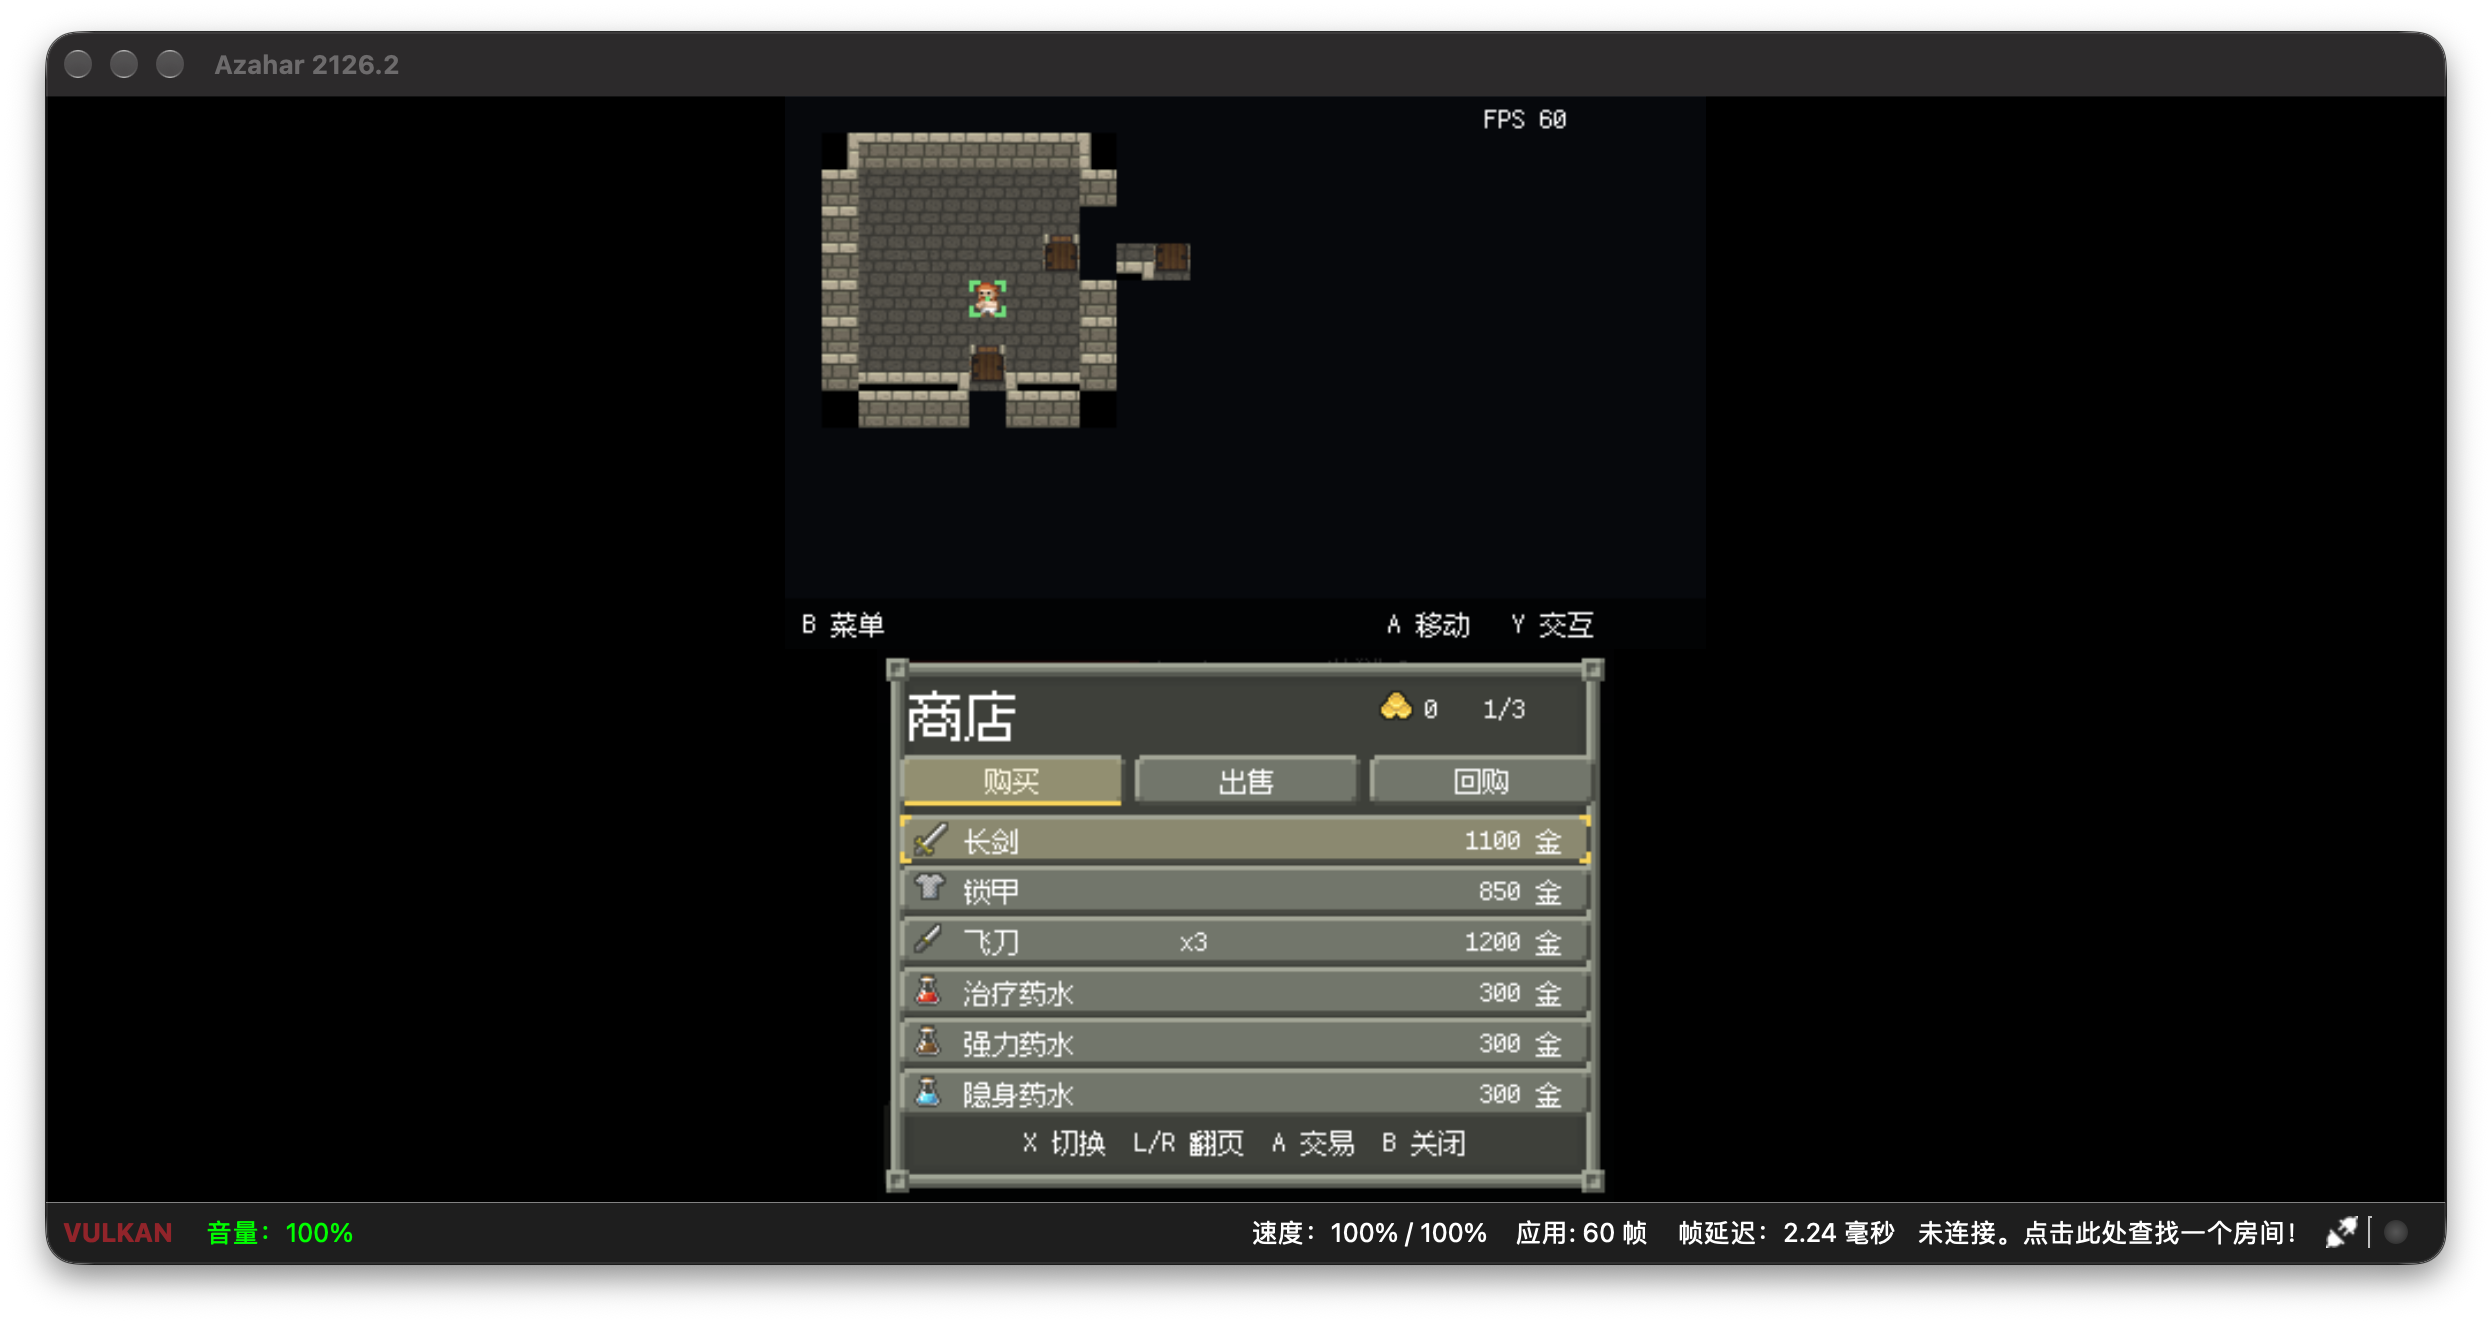
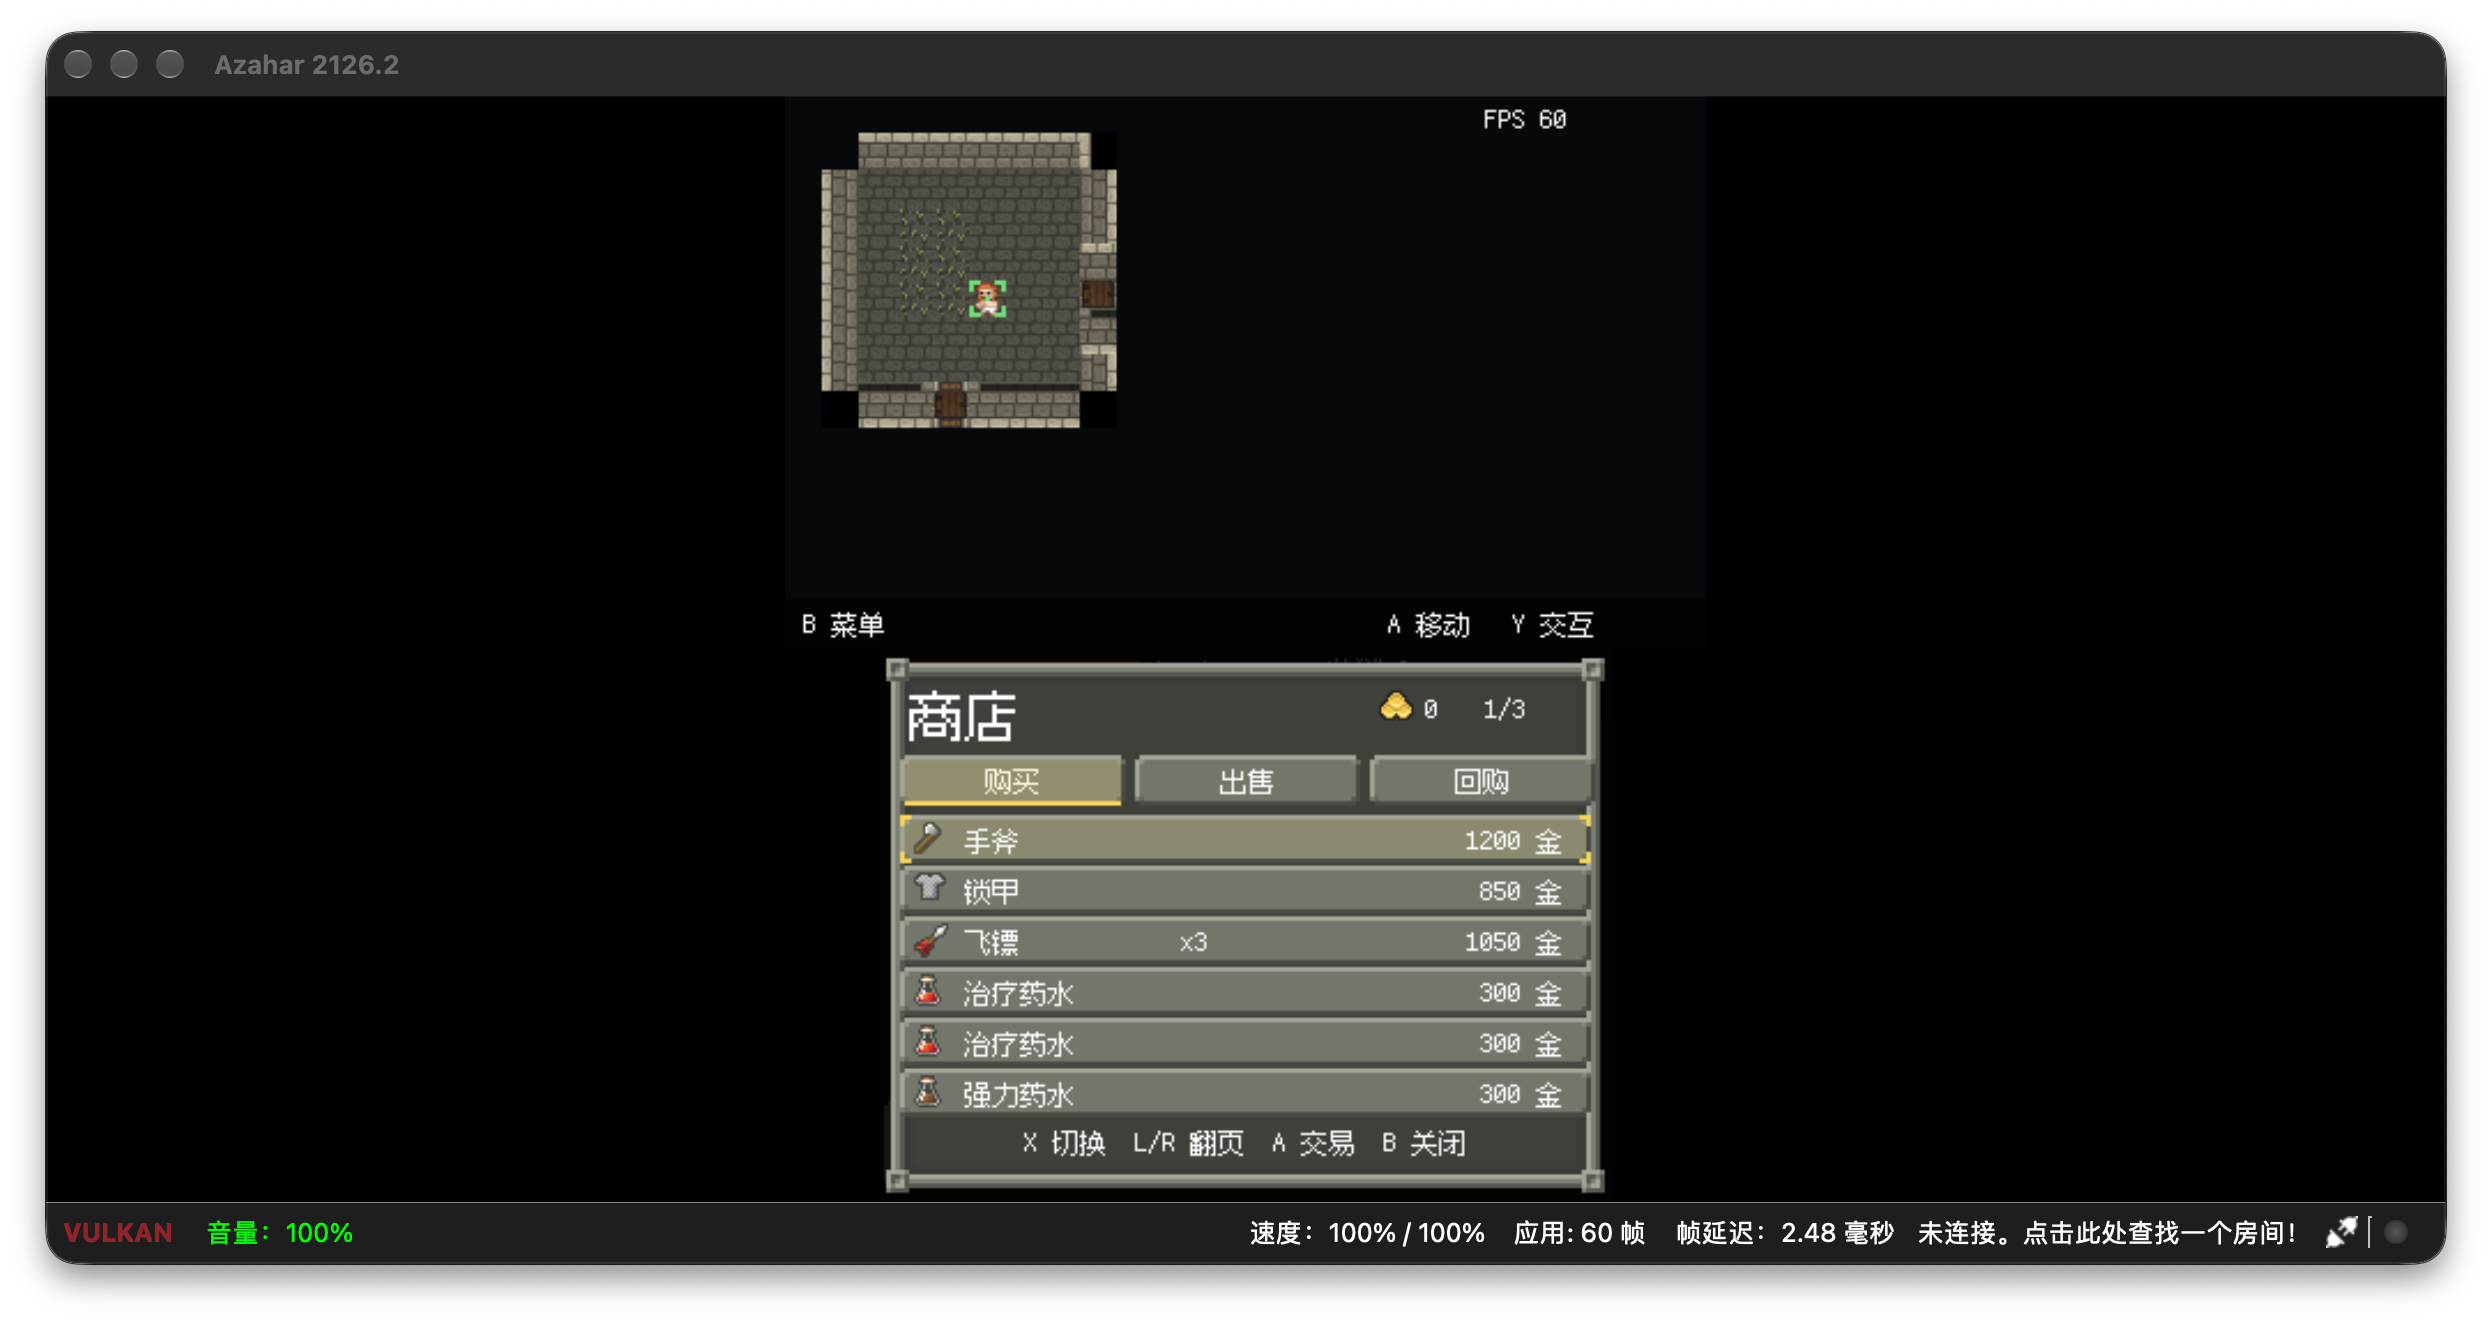
walls/doors: rotate raised-wall faces per open side; keep doors vertical
- top wall: cap up; bottom wall: 180deg cap down
- left/right walls: -90/+90 so side faces point into the room
- interior cells use the wall top surface; 4px contact shadow remains
- doors are standing vertical panels (112/113/114) in the wall opening
- refresh screenshots

diff --git a/source/game_screen.cpp b/source/game_screen.cpp
@@ -10,19 +10,6 @@ static bool wall_like(uint8_t t) {
   return t == T_WALL || t == T_SECRET;
 }
 
-// A wall cell touching walkable space is the visible "face" of a wall; only
-// fully interior wall cells get the dark top-surface layer.
-static bool wall_face_cell(int x, int y) {
-  static const int DX[4] = {-1, 1, 0, 0};
-  static const int DY[4] = {0, 0, -1, 1};
-  for (int i = 0; i < 4; i++) {
-    int nx = x + DX[i], ny = y + DY[i];
-    if (nx < 0 || ny < 0 || nx >= MW || ny >= MH) continue;
-    if (!wall_like(G.tiles[ny][nx])) return true;
-  }
-  return false;
-}
-
 static void tile_cell(uint8_t t, int& cx, int& cy) {
   // Indices from SPD's DungeonTileSheet (tiles_sewers.png is a 16x16 grid).
   int idx = 0;
@@ -180,19 +167,40 @@ static void draw_map() {
       tile_cell(tt, scx, scy);
       u32 tint = G.vis[y][x] ? 0 : 0x707070FF;
       float tx = (float)(x * 16 - camx), ty = (float)(y * 16 - camy);
-      if (wall_like(tt)) {
-        // SPD stitches raised walls: +1 open to the right, +2 open to the left.
-        int idx = 80;
-        if (x + 1 >= MW || !wall_like(G.tiles[y][x + 1])) idx += 1;
-        if (x <= 0 || !wall_like(G.tiles[y][x - 1])) idx += 2;
-        draw_cell(A_tiles[G.region()], (idx % 16) * 16, (idx / 16) * 16, 16, 16,
-                  tx, ty, 1, 1, tint);
-      } else if (tt == T_DOOR || tt == T_DOOR_OPEN ||
-                 tt == T_DOOR_LOCKED) {
-        // Raised doors are vertical panels in SPD: 112 closed, 113 open, 114 locked.
-        int idx = tt == T_DOOR_OPEN ? 113 : (tt == T_DOOR_LOCKED ? 114 : 112);
-        draw_cell(A_tiles[G.region()], (idx % 16) * 16, (idx / 16) * 16, 16, 16,
-                  tx, ty, 1, 1, tint);
+      bool is_door = (tt == T_DOOR || tt == T_DOOR_OPEN ||
+                      tt == T_DOOR_LOCKED);
+      if (is_door) {
+        // Doors are drawn below with the correct orientation.
+        continue;
+      } else if (wall_like(tt)) {
+        bool open_above = (y > 0 && !wall_like(G.tiles[y - 1][x]));
+        bool open_below = (y + 1 < MH && !wall_like(G.tiles[y + 1][x]));
+        bool open_left = (x > 0 && !wall_like(G.tiles[y][x - 1]));
+        bool open_right = (x + 1 < MW && !wall_like(G.tiles[y][x + 1]));
+        if (open_above || open_below || open_left || open_right) {
+          // The raised wall sprite is a face with its light cap at the top.
+          // Rotate it so the cap faces away from the room:
+          //   floor below -> 0deg, floor above -> 180deg,
+          //   floor right (wall on the left) -> -90deg,
+          //   floor left (wall on the right) -> +90deg.
+          int idx = 80;
+          float angle = 0.0f;
+          if (open_below) {
+            angle = 0.0f;
+            if (open_right) idx += 1;
+            if (open_left) idx += 2;
+          } else if (open_above) {
+            angle = (float)M_PI;
+            if (open_left) idx += 1;
+            if (open_right) idx += 2;
+          } else if (open_right) {
+            angle = -(float)M_PI * 0.5f;
+          } else {
+            angle = (float)M_PI * 0.5f;
+          }
+          draw_cell_rot(A_tiles[G.region()], (idx % 16) * 16, (idx / 16) * 16,
+                        16, 16, tx, ty, 1.0f, angle, tint);
+        }
       } else if (tt == T_WATER) {
         // +1 top land, +2 right, +4 bottom, +8 left (SPD stitchWaterTile).
         int idx = 32;
@@ -212,6 +220,22 @@ static void draw_map() {
     }
   }
 
+  // Doors: vertical panels in horizontal walls, horizontal panels in vertical walls.
+  for (int y = ty0; y <= ty1; y++) {
+    for (int x = tx0; x <= tx1; x++) {
+      if (!G.seen[y][x]) continue;
+      uint8_t tt = G.tiles[y][x];
+      if (tt != T_DOOR && tt != T_DOOR_OPEN && tt != T_DOOR_LOCKED)
+        continue;
+      uint32_t tint = G.vis[y][x] ? 0 : 0x707070FF;
+      float tx = (float)(x * 16 - camx), ty = (float)(y * 16 - camy);
+      // SPD draws all door variants as standing vertical panels.
+      int idx = tt == T_DOOR_OPEN ? 113 : (tt == T_DOOR_LOCKED ? 114 : 112);
+      draw_cell(A_tiles[G.region()], (idx % 16) * 16, (idx / 16) * 16,
+                16, 16, tx, ty, 1, 1, tint);
+    }
+  }
+
   // SPD upper wall layers: internal wall tops (144..159) and overhangs (192..207).
   for (int y = ty0; y <= ty1; y++) {
     for (int x = tx0; x <= tx1; x++) {
@@ -220,7 +244,12 @@ static void draw_map() {
       uint8_t below = (y + 1 < MH) ? G.tiles[y + 1][x] : T_WALL;
       uint32_t tint = G.vis[y][x] ? 0 : 0x707070FF;
       float tx = (float)(x * 16 - camx), ty = (float)(y * 16 - camy);
-      if (wall_like(tt) && wall_like(below) && !wall_face_cell(x, y)) {
+      bool open_up = (y > 0 && !wall_like(G.tiles[y - 1][x]));
+      bool open_dn = (y + 1 < MH && !wall_like(G.tiles[y + 1][x]));
+      bool open_lf = (x > 0 && !wall_like(G.tiles[y][x - 1]));
+      bool open_rt = (x + 1 < MW && !wall_like(G.tiles[y][x + 1]));
+      if (wall_like(tt) && wall_like(below) && !open_up && !open_dn &&
+          !open_lf && !open_rt) {
         // Wall top surface, stitched with neighbours (SPD stitchInternalWallTile).
         int right = (x + 1 < MW && wall_like(G.tiles[y][x + 1])) ? 1 : 0;
         int rb = (x + 1 < MW && y + 1 < MH && wall_like(G.tiles[y + 1][x + 1])) ? 1 : 0;

diff --git a/source/game.cpp b/source/game.cpp
@@ -784,14 +784,12 @@ void Game::gen_level() {
         tiles[p.second][p.first] = T_FLOOR;
     for (int i = 1; i < (int)path.size(); i++) {
       if (inside(a, path[i].first, path[i].second)) continue;
-      auto p = path[i - 1];
-      if (inside(a, p.first, p.second)) set_door(p.first, p.second, a);
+      set_door(path[i].first, path[i].second, a);
       break;
     }
     for (int i = (int)path.size() - 2; i >= 0; i--) {
       if (inside(b, path[i].first, path[i].second)) continue;
-      auto p = path[i + 1];
-      if (inside(b, p.first, p.second)) set_door(p.first, p.second, b);
+      set_door(path[i].first, path[i].second, b);
       break;
     }
   };

diff --git a/README.md b/README.md
@@ -377,9 +377,12 @@ tools/venv/bin/python tools/item_audit.py
 
 Map tiles follow `DungeonTileSheet.java` instead of the old flat-wall look:
 
-- walls use the **raised-wall** group (`80..83`, stitched per side), with the
-  internal top-surface layer (`144..159`) on interior wall cells and a 4px
-  contact-shadow overhang (`192..207`) at wall/floor joins,
+- walls use the **raised-wall** group (`80..83`) rotated to face the room:
+  light cap up for a top wall, down for a bottom wall, left/right for side
+  walls; interior cells use the top-surface layer (`144..159`) and wall/floor
+  joins get a 4px contact shadow (`192..207`),
+- doors are always standing **vertical panels** (`112/113/114`) as in SPD,
+  placed in the wall opening rather than inside the room,
 - doors use the raised door frames (`112` closed / `113` open),
 - water uses the 16-way stitched tiles (`32..47`),
 - chests / locked chests / tombs use `ItemSpriteSheet` cells `36 / 37 / 34`,
